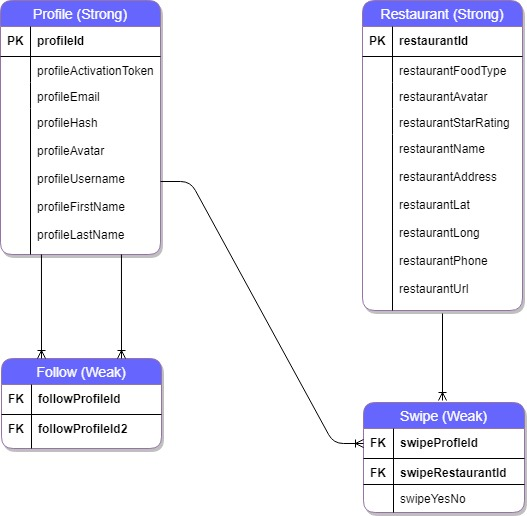
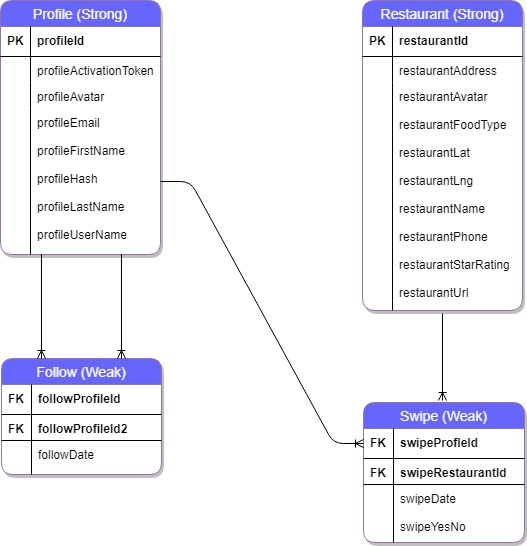
added updates to conceptual model

diff --git a/epic/conceptual-model.html b/epic/conceptual-model.html
@@ -8,38 +8,40 @@
     <h1>Restaurant Tinder Conceptual Model</h1>
     <h2>Profile</h2>
         <ul>
-            <li>Profile Id (PK)</li>
-            <li>Profile Activation Token</li>
-            <li>Profile Email</li>
-            <li>Profile Hash</li>
-            <li>Profile Avatar</li>
-            <li>Profile Username</li>
-            <li>Profile First Name</li>
-            <li>Profile Last Name</li>
+            <li>profileId (PK)</li>
+            <li>profileActivationToken</li>
+            <li>profileAvatar</li>
+            <li>profileEmail</li>
+            <li>profileFirstName</li>
+            <li>profileHash</li>
+            <li>profileLastName</li>
+            <li>profileUsername</li>
         </ul>
     <h2>Follow</h2>
         <ul>
-            <li>Follow Profile Id (FK)</li>
-            <li>Follow Profile Id 2 (FK)</li>
+            <li>followProfileId (FK)</li>
+            <li>followProfileId2 (FK)</li>
+            <li>followDate</li>
         </ul>
     <h2>Restaurant</h2>
         <ul>
-            <li>Restaurant Id (PK)</li>
-            <li>Restaurant Food Type</li>
-            <li>Restaurant Avatar</li>
-            <li>Restaurant Star Rating</li>
-            <li>Restaurant Name</li>
-            <li>Restaurant Address</li>
-            <li>Restaurant Latitude</li>
-            <li>Restaurant Longitude</li>
-            <li>Restaurant Phone</li>
-            <li>Restaurant Url</li>
+            <li>restaurantId (PK)</li>
+            <li>restaurantAddress</li>
+            <li>restaurantAvatar</li>
+            <li>restaurantFoodType</li>
+            <li>restaurantLat</li>
+            <li>restaurantLng</li>
+            <li>restaurantName</li>
+            <li>restaurantPhone</li>
+            <li>restaurantStarRating</li>
+            <li>restaurantUrl</li>
         </ul>
     <h2>Swipe</h2>
         <ul>
-            <li>Swipe Profile Id (FK)</li>
-            <li>SwipeRestaurantId (FK)</li>
-            <li>Swipe Yes or No</li>
+            <li>swipeProfileId (FK)</li>
+            <li>swipeRestaurantId (FK)</li>
+            <li>swipeDate</li>
+            <li>swipeYesNo</li>
         </ul>
     <h2>Relationship</h2>
         <ul>
